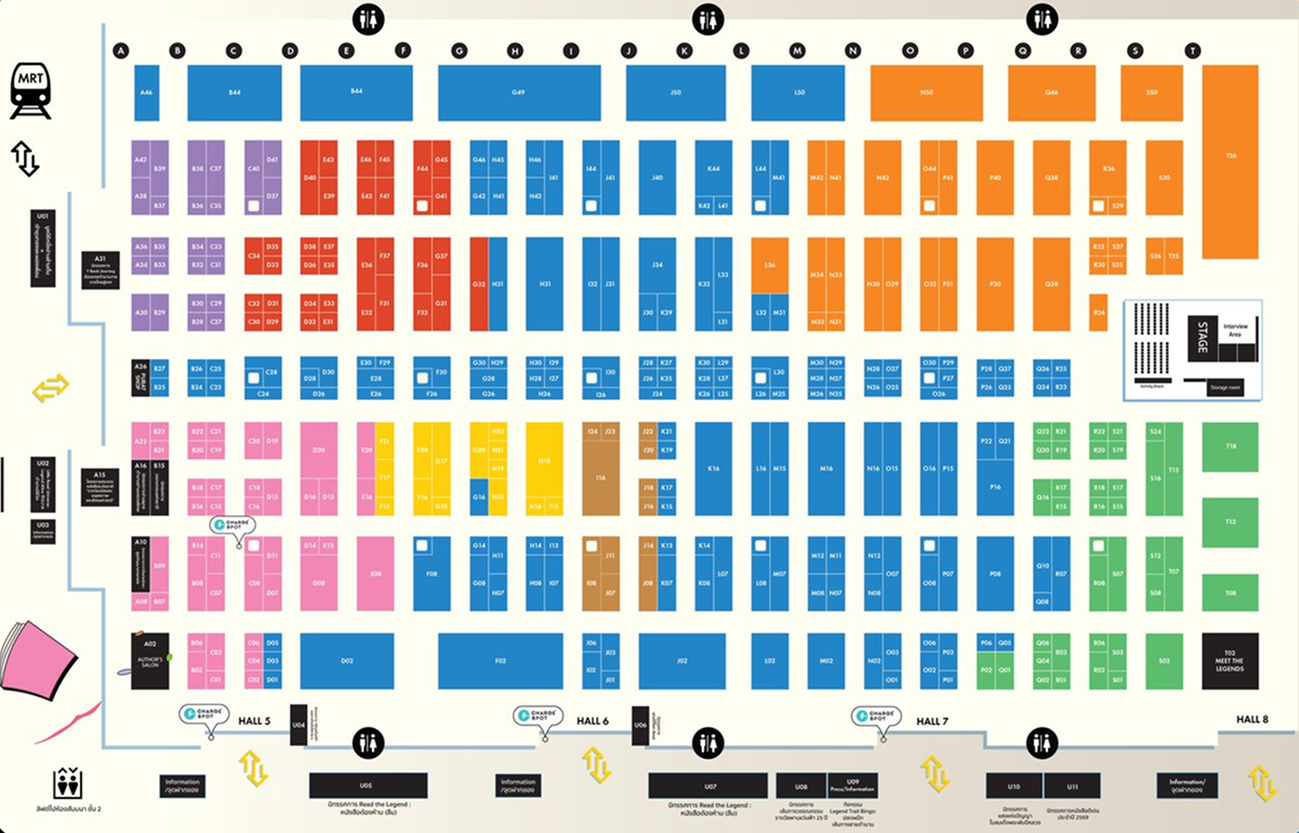
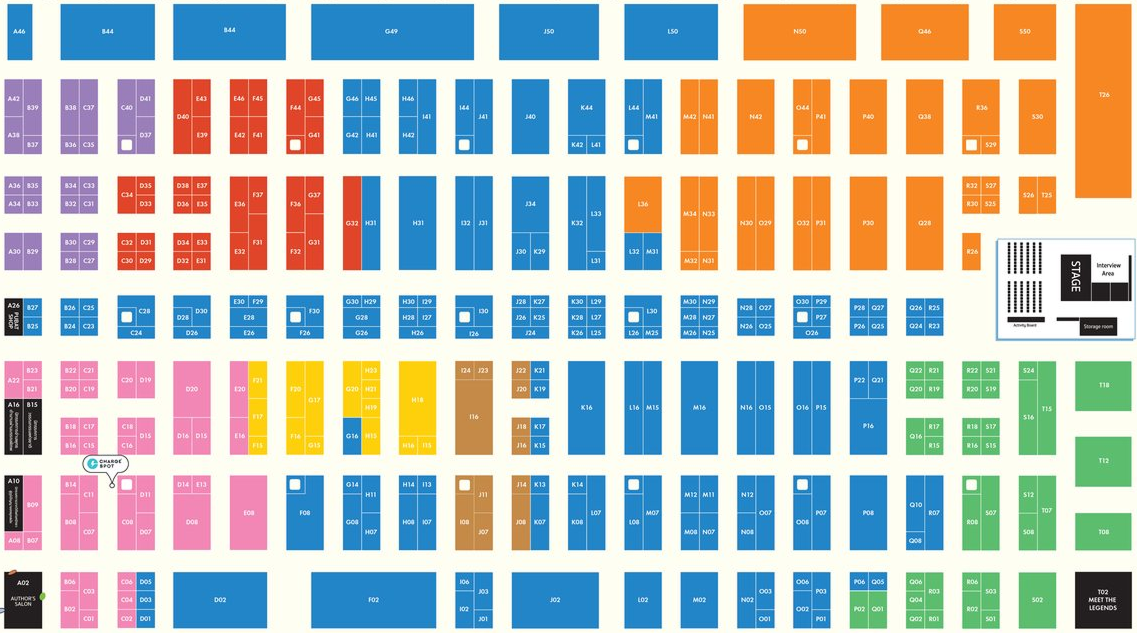
Update to higher-res 2569 booth layout (1137x633)

diff --git a/app/map/page.tsx b/app/map/page.tsx
@@ -9,8 +9,8 @@ import { useLIFF } from "../../providers/liff-providers";
 import { getSupabase } from "../../utils/supabase";
 import { resolveBooths, optimiseRoute, routeToWaypoints, type BoothCoords } from "../../utils/booth-coords";
 
-const IMAGE_W = 1980;
-const IMAGE_H = 1488;
+const IMAGE_W = 1137;
+const IMAGE_H = 633;
 
 interface RouteStop extends BoothCoords {
   name_th: string;
